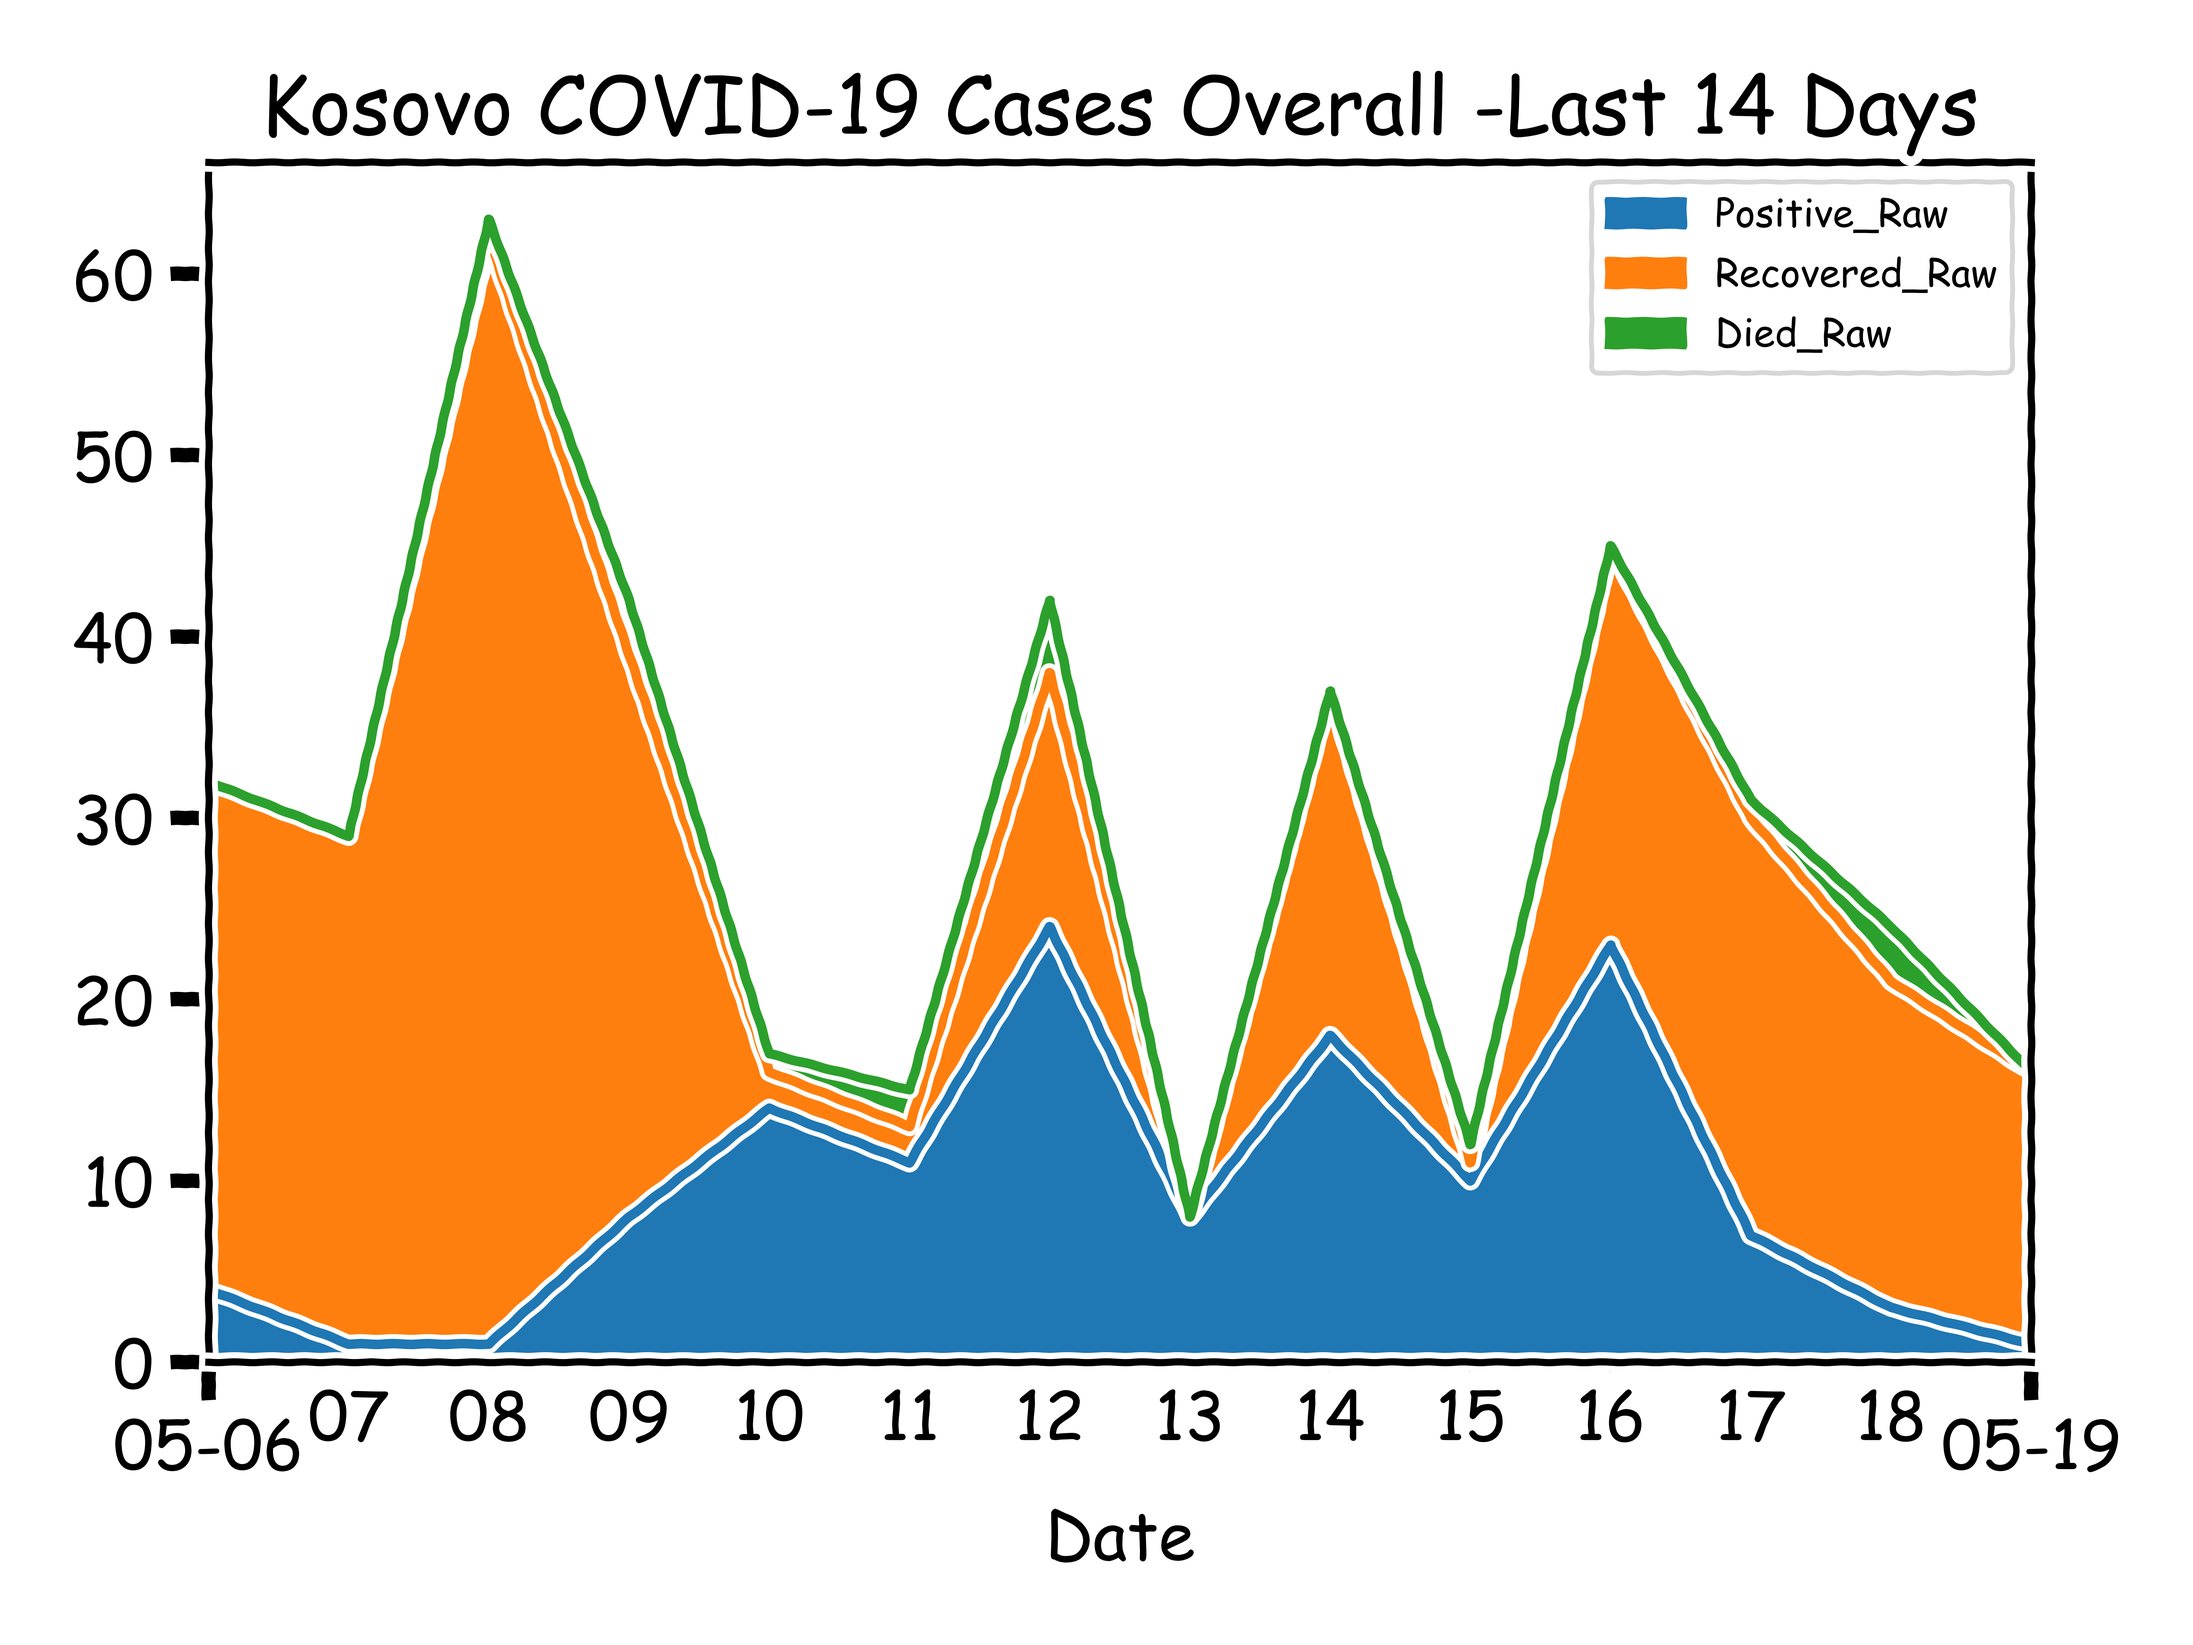
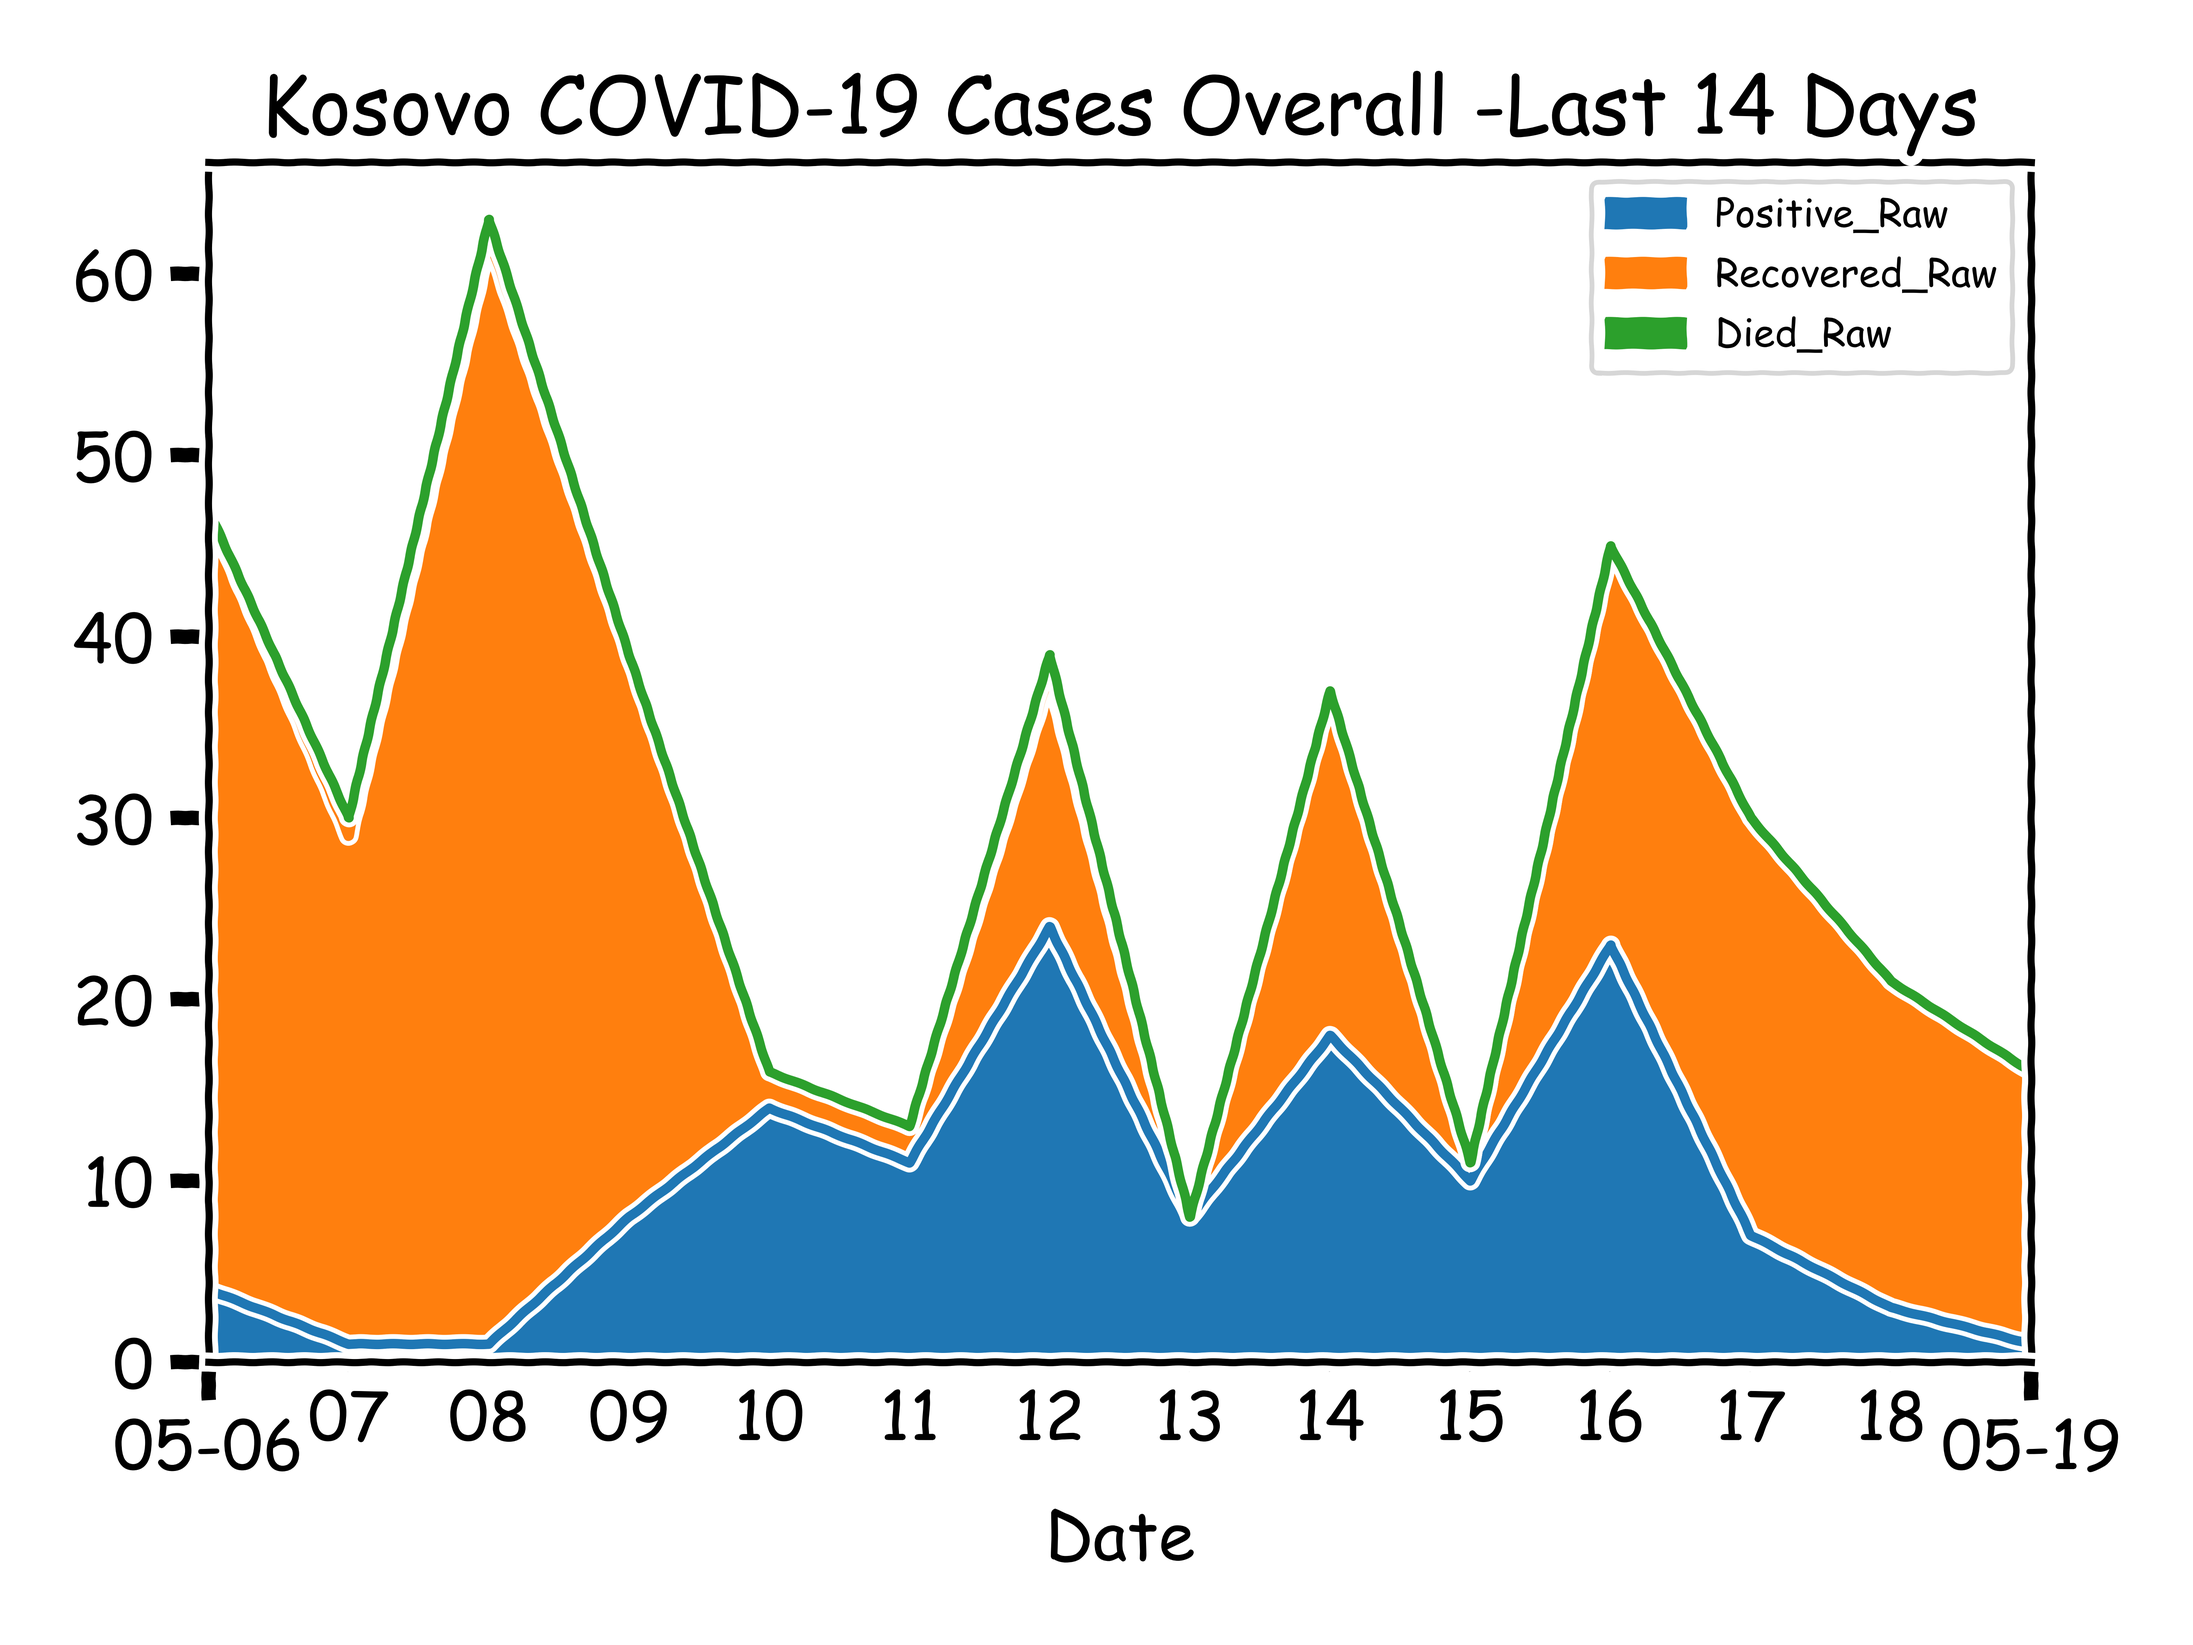
Daily push for 20200520

diff --git a/tasks.py b/tasks.py
@@ -27,5 +27,10 @@ def push(c, tag=False, docs=False):
 @task
 def release(c, docs=False):
     c.run('zip -j ./Releases/{0}.zip ./Graphics/{0}/*'.format(foldername))
-
     c.run('hub release create -o -a ./Releases/{0}.zip -m \"Covid Graphs for {0}.\" {0}'.format(foldername))
+
+@task
+def rescind(c, docs=False):
+    c.run('git tag -d {0}'.format(foldername))
+    c.run('git push --delete origin {0}'.format(foldername))
+    c.run('hub release delete {0}'.format(foldername))

diff --git a/covid.py b/covid.py
@@ -11,7 +11,7 @@ import pandas
 
 pandas.set_option('use_inf_as_na', True)
 
-COVID_Raw = pandas.read_csv("COVID_Raw.csv")
+COVID_Raw = pandas.read_csv("./Data/COVID_Raw.csv")
 COVID_Raw['Date'] = pandas.to_datetime(COVID_Raw['Date'])
 COVID_Raw = COVID_Raw.set_index('Date')
 COVID_Raw[['Tested_Cum']] = COVID_Raw[['Tested_Raw']].cumsum()

diff --git a/README.md b/README.md
@@ -3,9 +3,16 @@
 This is Open Source data about COVID-19 cases in Kosovo. The scripts used in this program should be run as follows:
 `ipython covid.py`
 
+If you would like to run it using the invoke system, the following command will kick off the process:
+`invoke build push --tag release`
+
 ***I have removed all of the MacOS specific code. This should work on any computer now. On Windows, I would highly recomoend using Scientific Python instead of trying to roll your own.***
 
 
 # Just the Facts
 
 If you would just like to see the results of the scripts, I make a [release](https://github.com/bnice5000/COVID-STATS/releases) almost every weekday.
+
+# Note about the data
+
+We have been entering the data daily. At some point before 2020-05-19 the data was retrospectively modified. It an effort to maintain transparency, we have the old data file, the new data file, along with a diff file of the changes. If the data diverges again we will use the same process to maintain transparency.
